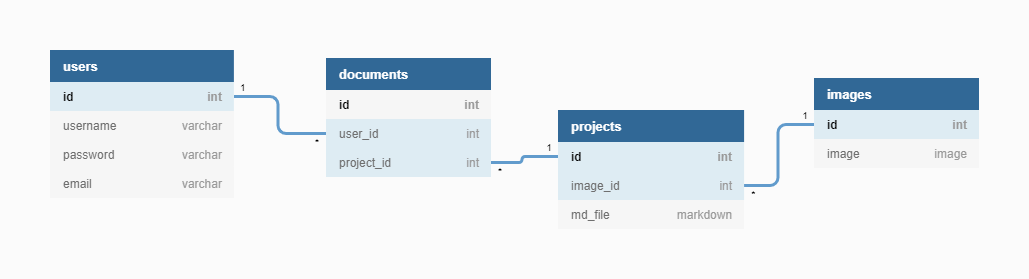
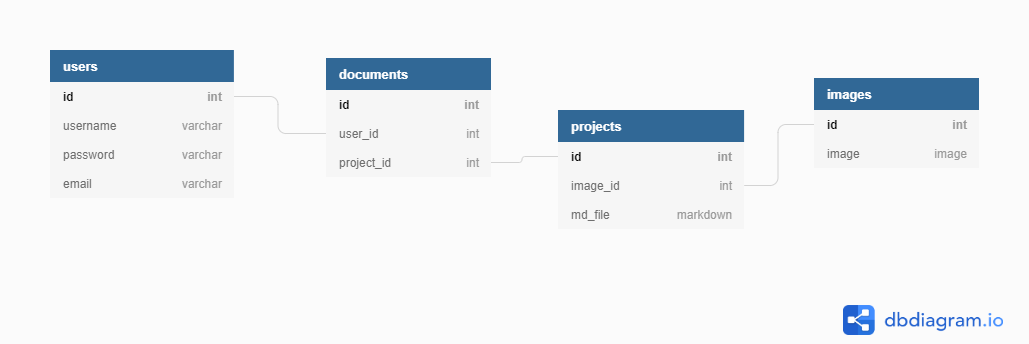
updated readme with database relationships

diff --git a/README.md b/README.md
@@ -26,7 +26,7 @@ To allow the upload, storage, editing, downloading and converting to pdf (with i
 
     If python isnt installed it can be downloaded [here](https://www.python.org/downloads/) for windows or
 
-    ```
+    ```bash
     sudo apt-get install software-properties-common
     sudo add-apt-repository ppa:deadsnakes/ppa
     sudo apt-get update
@@ -68,3 +68,9 @@ To allow the upload, storage, editing, downloading and converting to pdf (with i
 ## Database
 
 ![database schema](docs/dbschema.png)
+
+### Database relationships
+
+users > documents: one-to-many
+documents > projects: one-to-many
+projects > images: one-to-many
